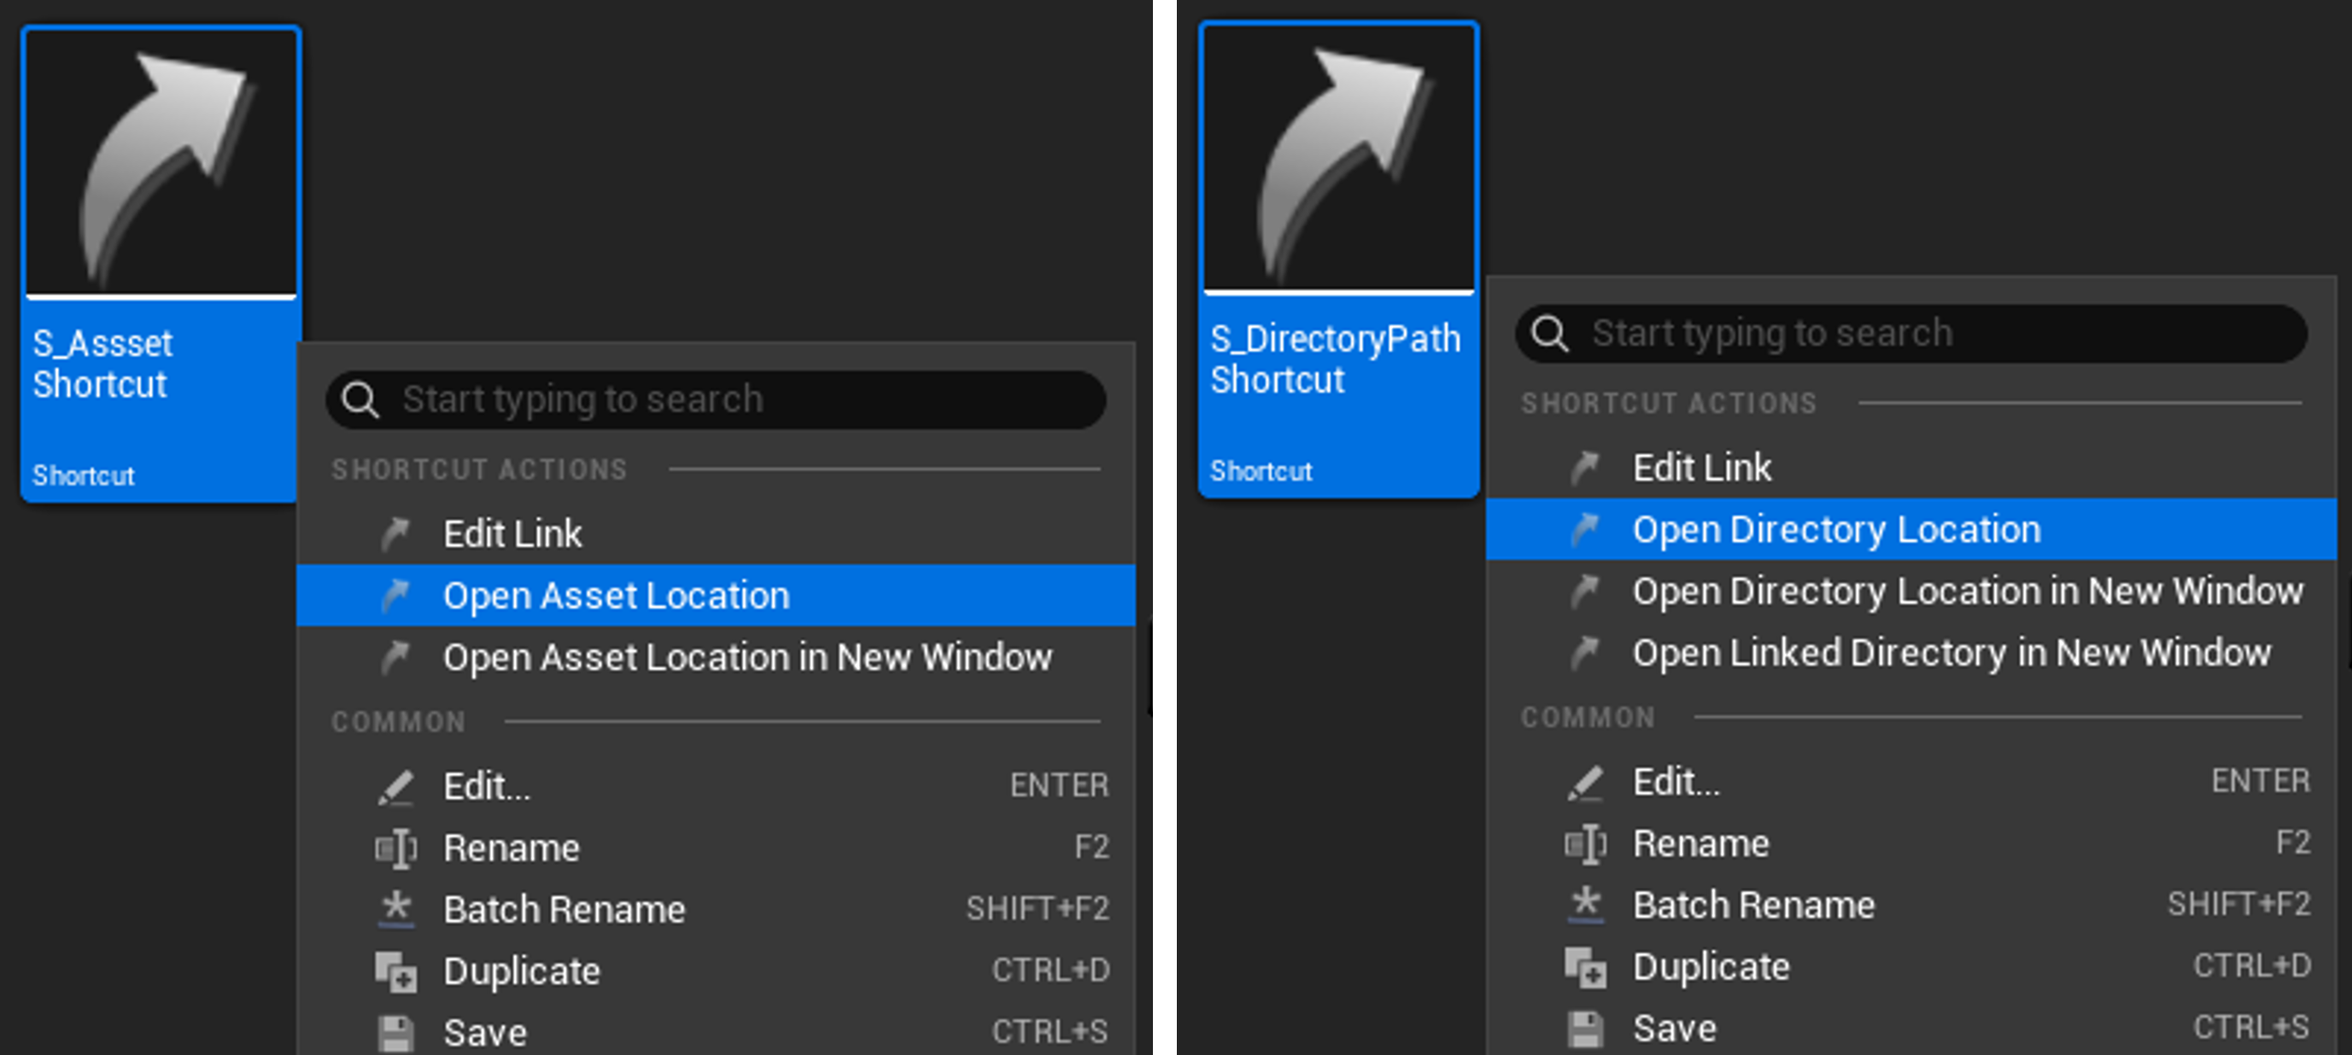
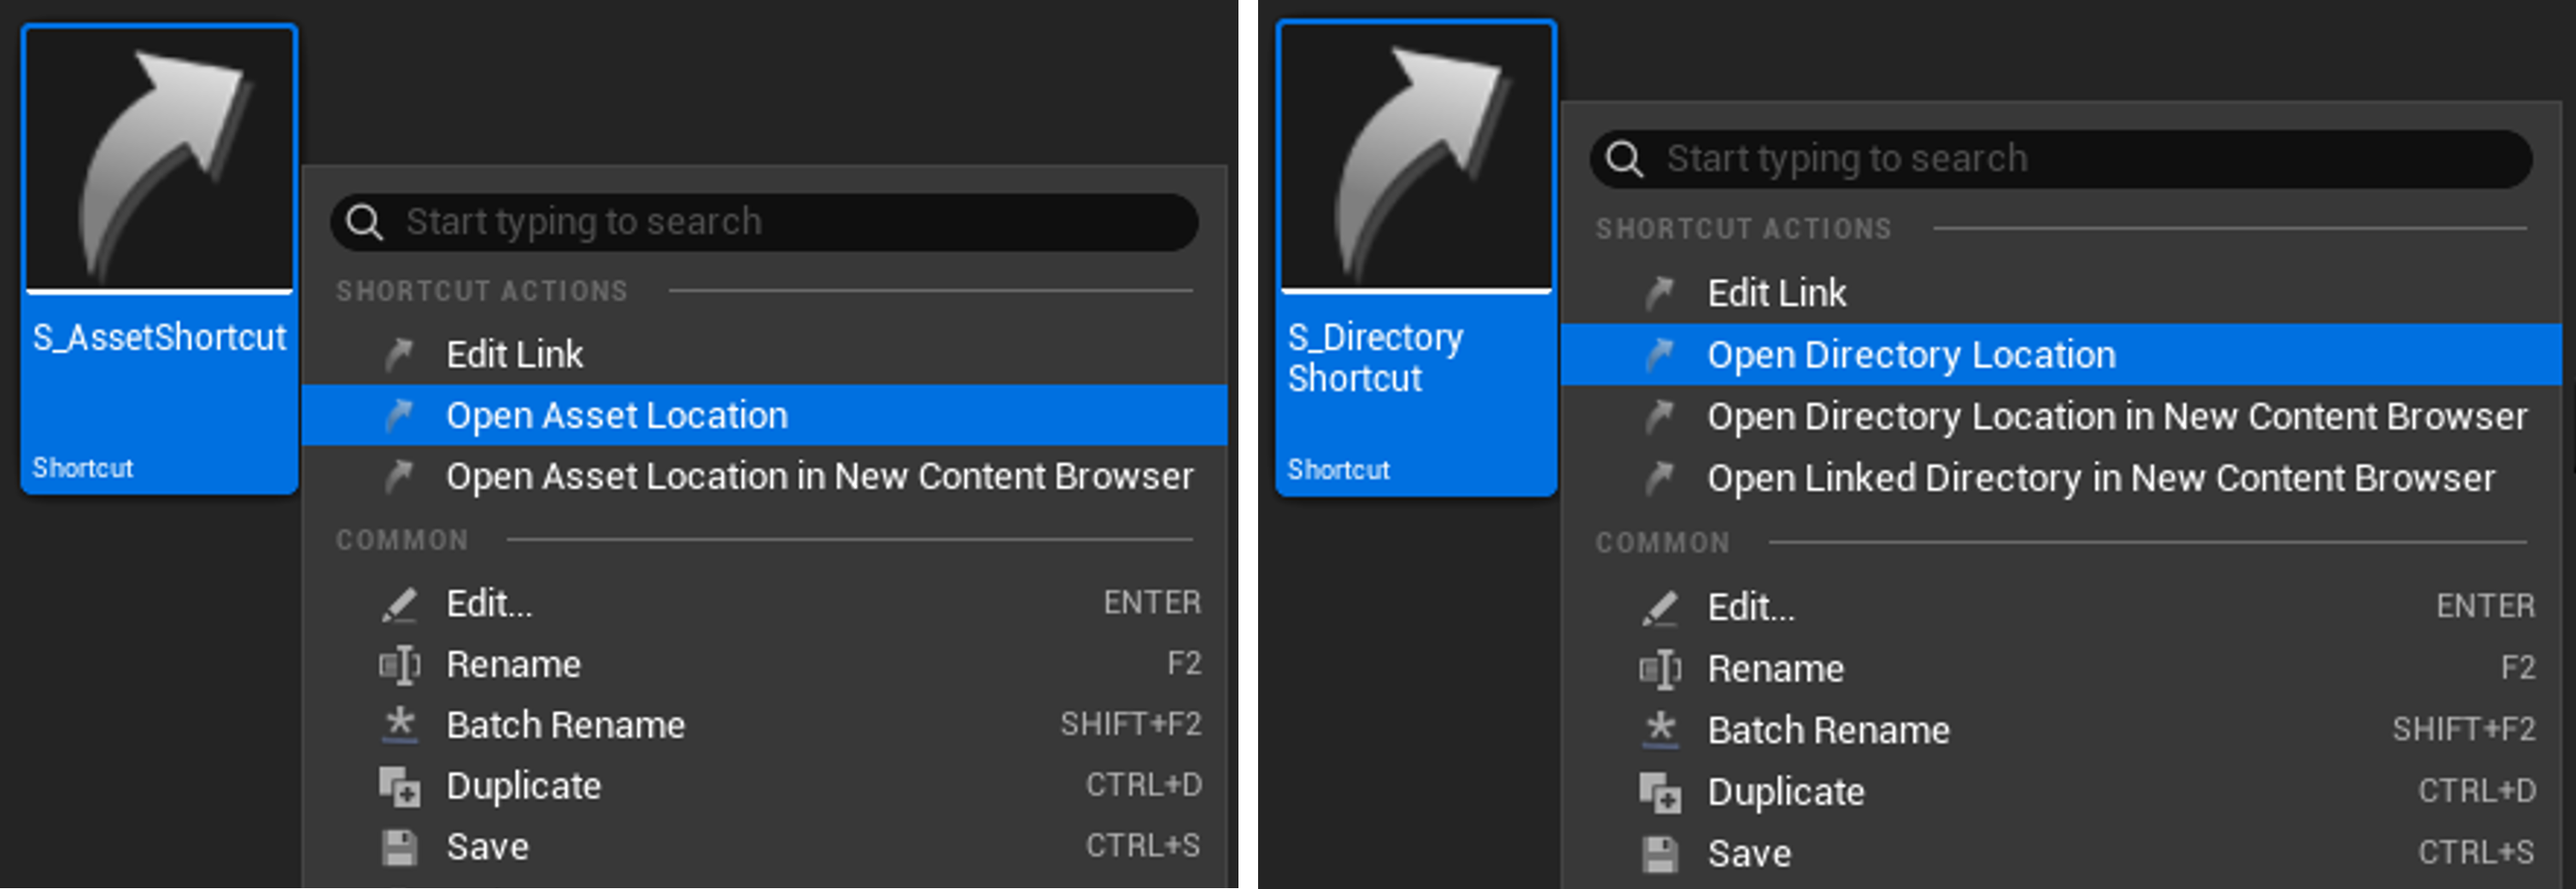
Fix: Menu naming

Changed region(s): [[0.0, 0.0, 0.9993, 1.0], [0.9993, 0.6142, 1.0, 0.6449], [0.7495, 0.1536, 0.7807, 0.1843]]

diff --git a/ShortcutAsset/Source/ShortcutAsset/Private/ShortcutAssetActions.cpp b/ShortcutAsset/Source/ShortcutAsset/Private/ShortcutAssetActions.cpp
@@ -94,8 +94,8 @@ void FShortcutAssetEditLinkActions::GetActions(const TArray<UObject*>& InObjects
 		);
 
 		MenuBuilder.AddMenuEntry(
-			LOCTEXT("ShortcutAsset_OpenLinkedAssetLocationInNewWindow", "Open Asset Location in New Window"),
-			LOCTEXT("ShortcutAsset_OpenLinkedAssetLocationInNewWindowTip", "Open directory where the linked asset is located (Open in new window)."),
+			LOCTEXT("ShortcutAsset_OpenLinkedAssetLocationInNewContentBrowser", "Open Asset Location in New Content Browser"),
+			LOCTEXT("ShortcutAsset_OpenLinkedAssetLocationInNewContentBrowserTip", "Open directory where the linked asset is located (Open in new Content Browser)."),
 			FSlateIcon("ShortcutAssetStyle", "ClassIcon.ShortcutAsset"),
 			FUIAction(
 				FExecuteAction::CreateLambda([=]
@@ -138,8 +138,8 @@ void FShortcutAssetEditLinkActions::GetActions(const TArray<UObject*>& InObjects
 		);
 
 		MenuBuilder.AddMenuEntry(
-			LOCTEXT("ShortcutAsset_OpenLinkedDirectoryLocationInNewWindow", "Open Directory Location in New Window"),
-			LOCTEXT("ShortcutAsset_OpenLinkedDirectoryLocationInNewWindowTip", "Open directory where the linked directory is located (Open in new window)."),
+			LOCTEXT("ShortcutAsset_OpenLinkedDirectoryLocationInNewContentBrowser", "Open Directory Location in New Content Browser"),
+			LOCTEXT("ShortcutAsset_OpenLinkedDirectoryLocationInNewContentBrowserTip", "Open directory where the linked directory is located (Open in new Content Browser)."),
 			FSlateIcon("ShortcutAssetStyle", "ClassIcon.ShortcutAsset"),
 			FUIAction(
 				FExecuteAction::CreateLambda([=]
@@ -159,8 +159,8 @@ void FShortcutAssetEditLinkActions::GetActions(const TArray<UObject*>& InObjects
 		);
 
 		MenuBuilder.AddMenuEntry(
-			LOCTEXT("ShortcutAsset_OpenLinkedDirectoryInNewWindow", "Open Linked Directory in New Window"),
-			LOCTEXT("ShortcutAsset_OpenLinkedDirectoryInNewWindowTip", "Open the liked directory in new window."),
+			LOCTEXT("ShortcutAsset_OpenLinkedDirectoryInNewContentBrowser", "Open Linked Directory in New Content Browser"),
+			LOCTEXT("ShortcutAsset_OpenLinkedDirectoryInNewContentBrowserTip", "Open the liked directory in new Content Browser."),
 			FSlateIcon("ShortcutAssetStyle", "ClassIcon.ShortcutAsset"),
 			FUIAction(
 				FExecuteAction::CreateLambda([=]

diff --git a/docs/tutorial.md b/docs/tutorial.md
@@ -83,10 +83,10 @@ Open directory where linked asset/directory is located.
 Open directory where linked asset/directory is located.
 New contents browser window will be opened.
 
-![Context Menu Access (Open Asset/Directory Location in New Window)](images/context_menu_open_asset_directory_location_in_new_window.png)
+![Context Menu Access (Open Asset/Directory Location in New Window)](images/context_menu_open_asset_directory_location_in_new_content_browser.png)
 
 ### Open Linked Directory in New Window
 
 If the [Link Type] is [Directory Path], open linked directory in new window.
 
-![Context Menu Access (Open Linked Directory in New Window)](images/context_menu_open_linked_directory_in_new_window.png)
+![Context Menu Access (Open Linked Directory in New Window)](images/context_menu_open_linked_directory_in_new_content_browser.png)
